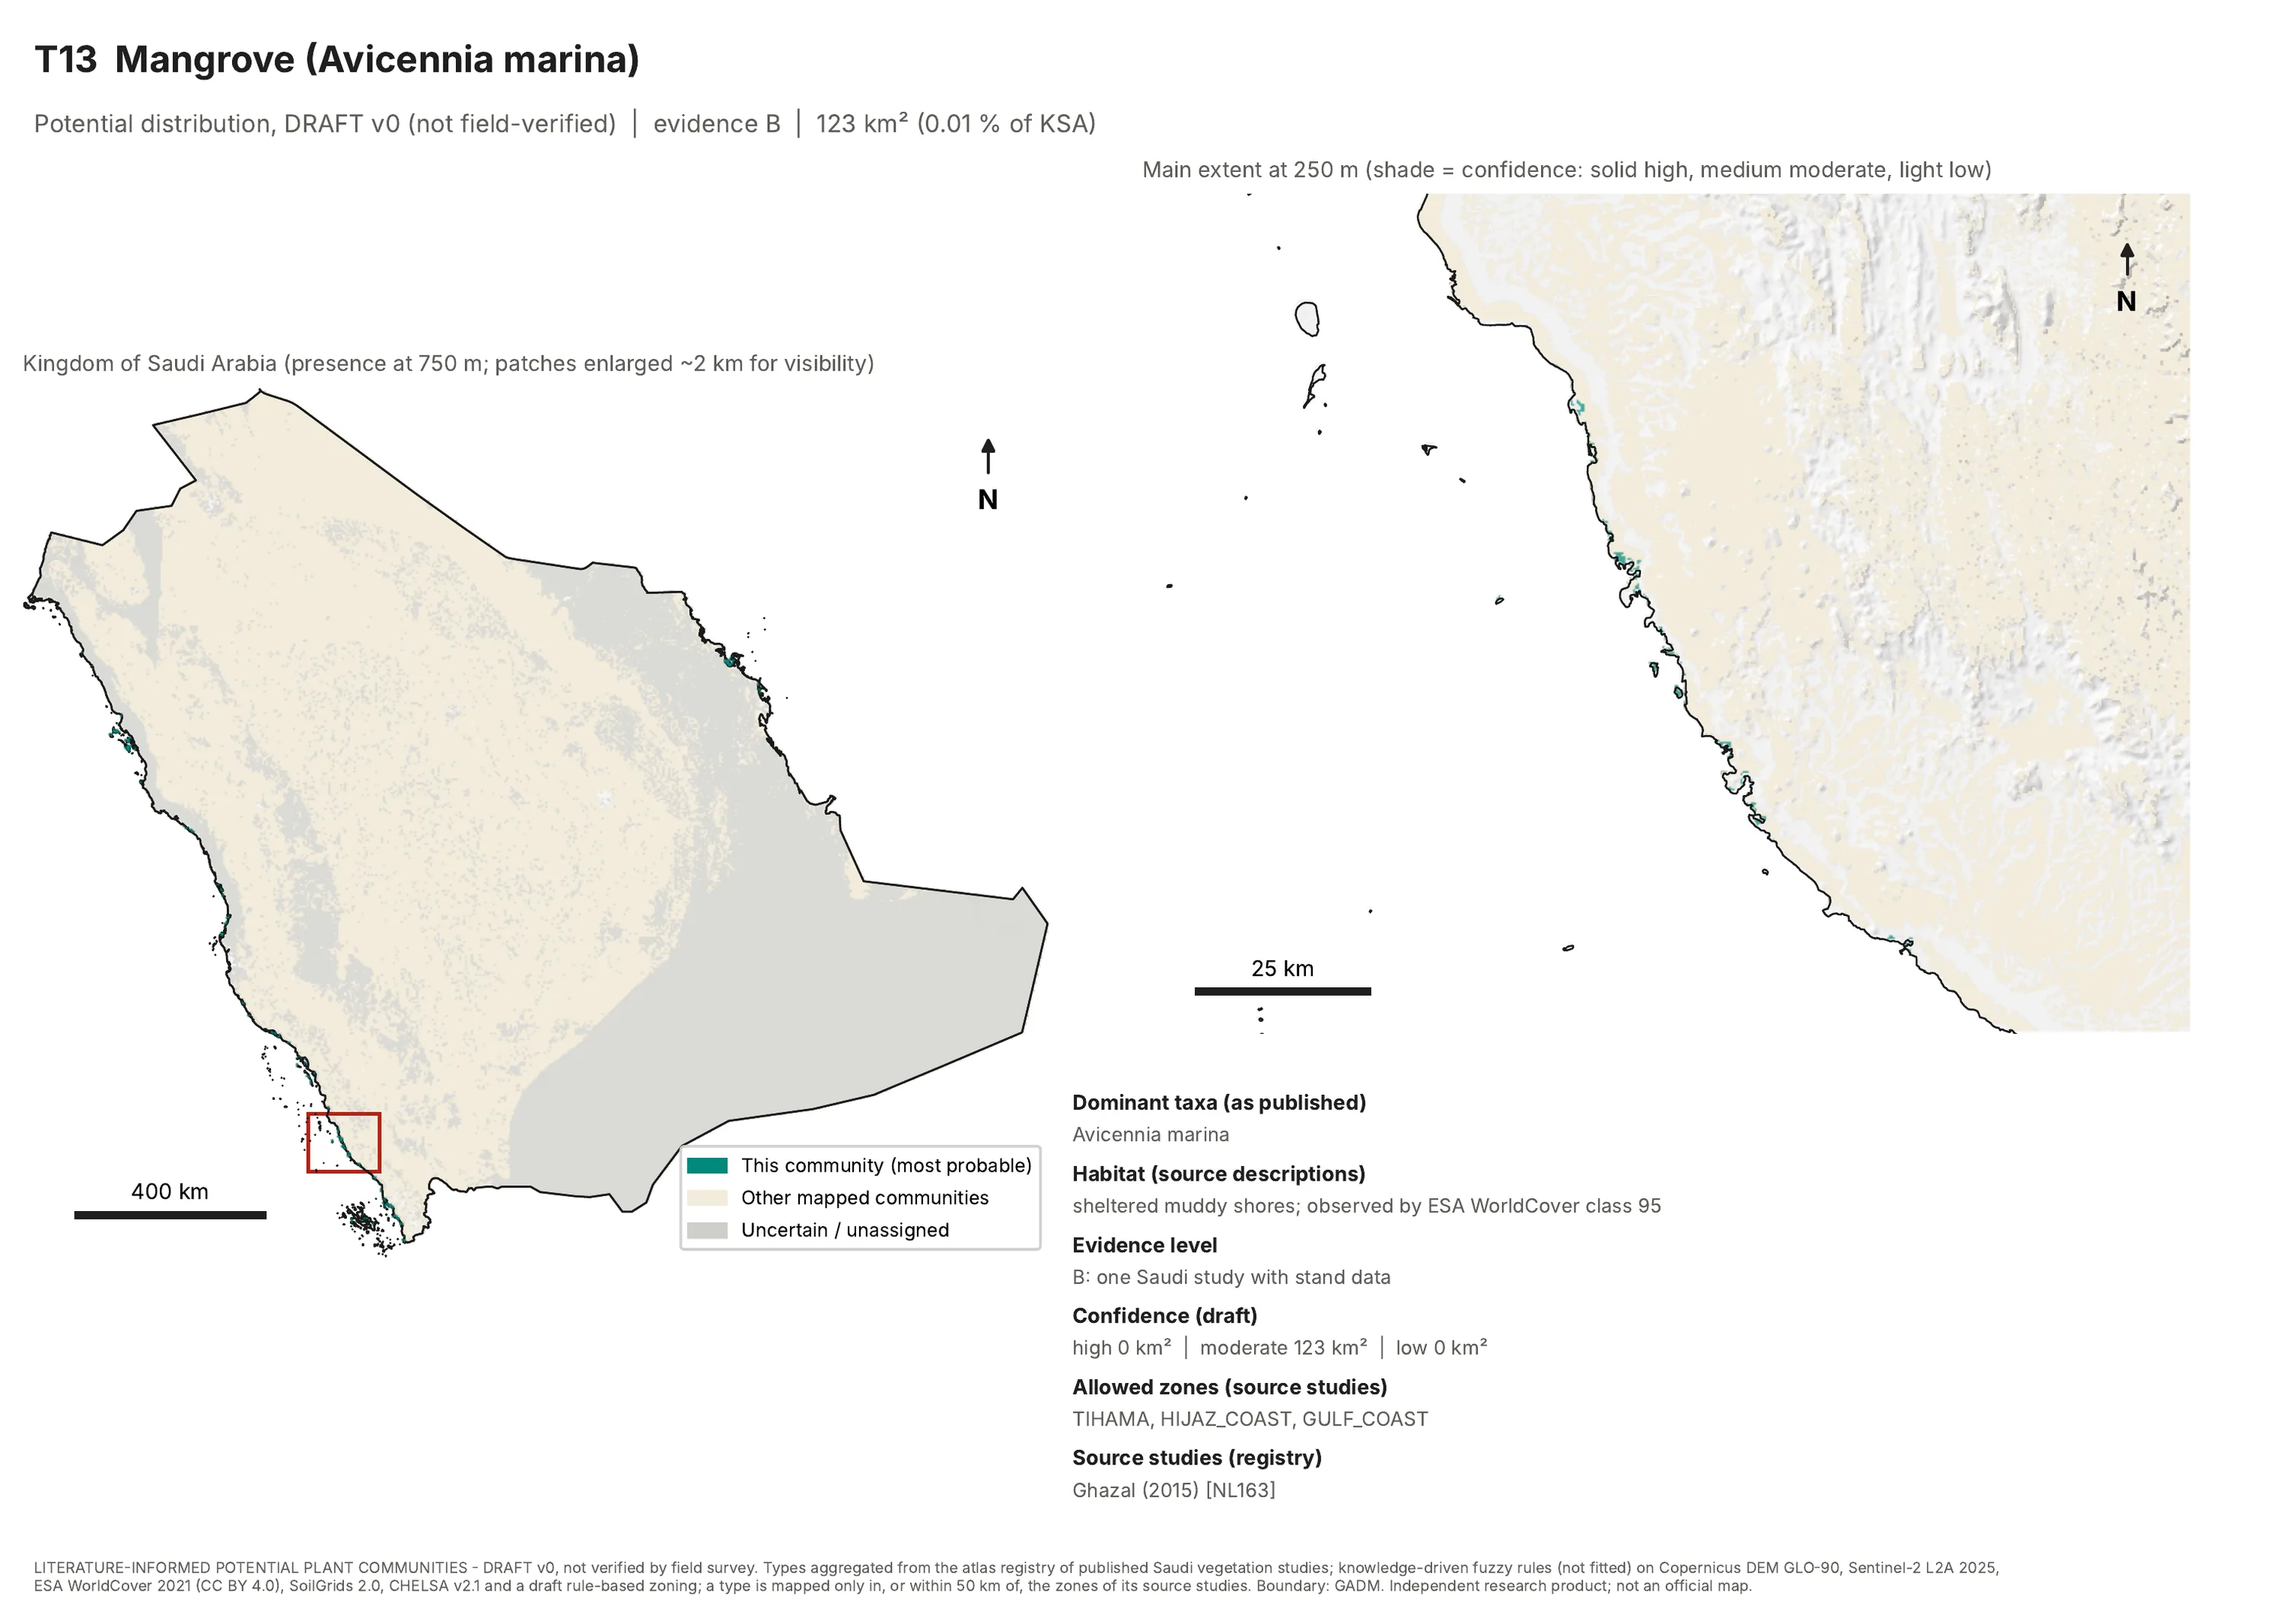
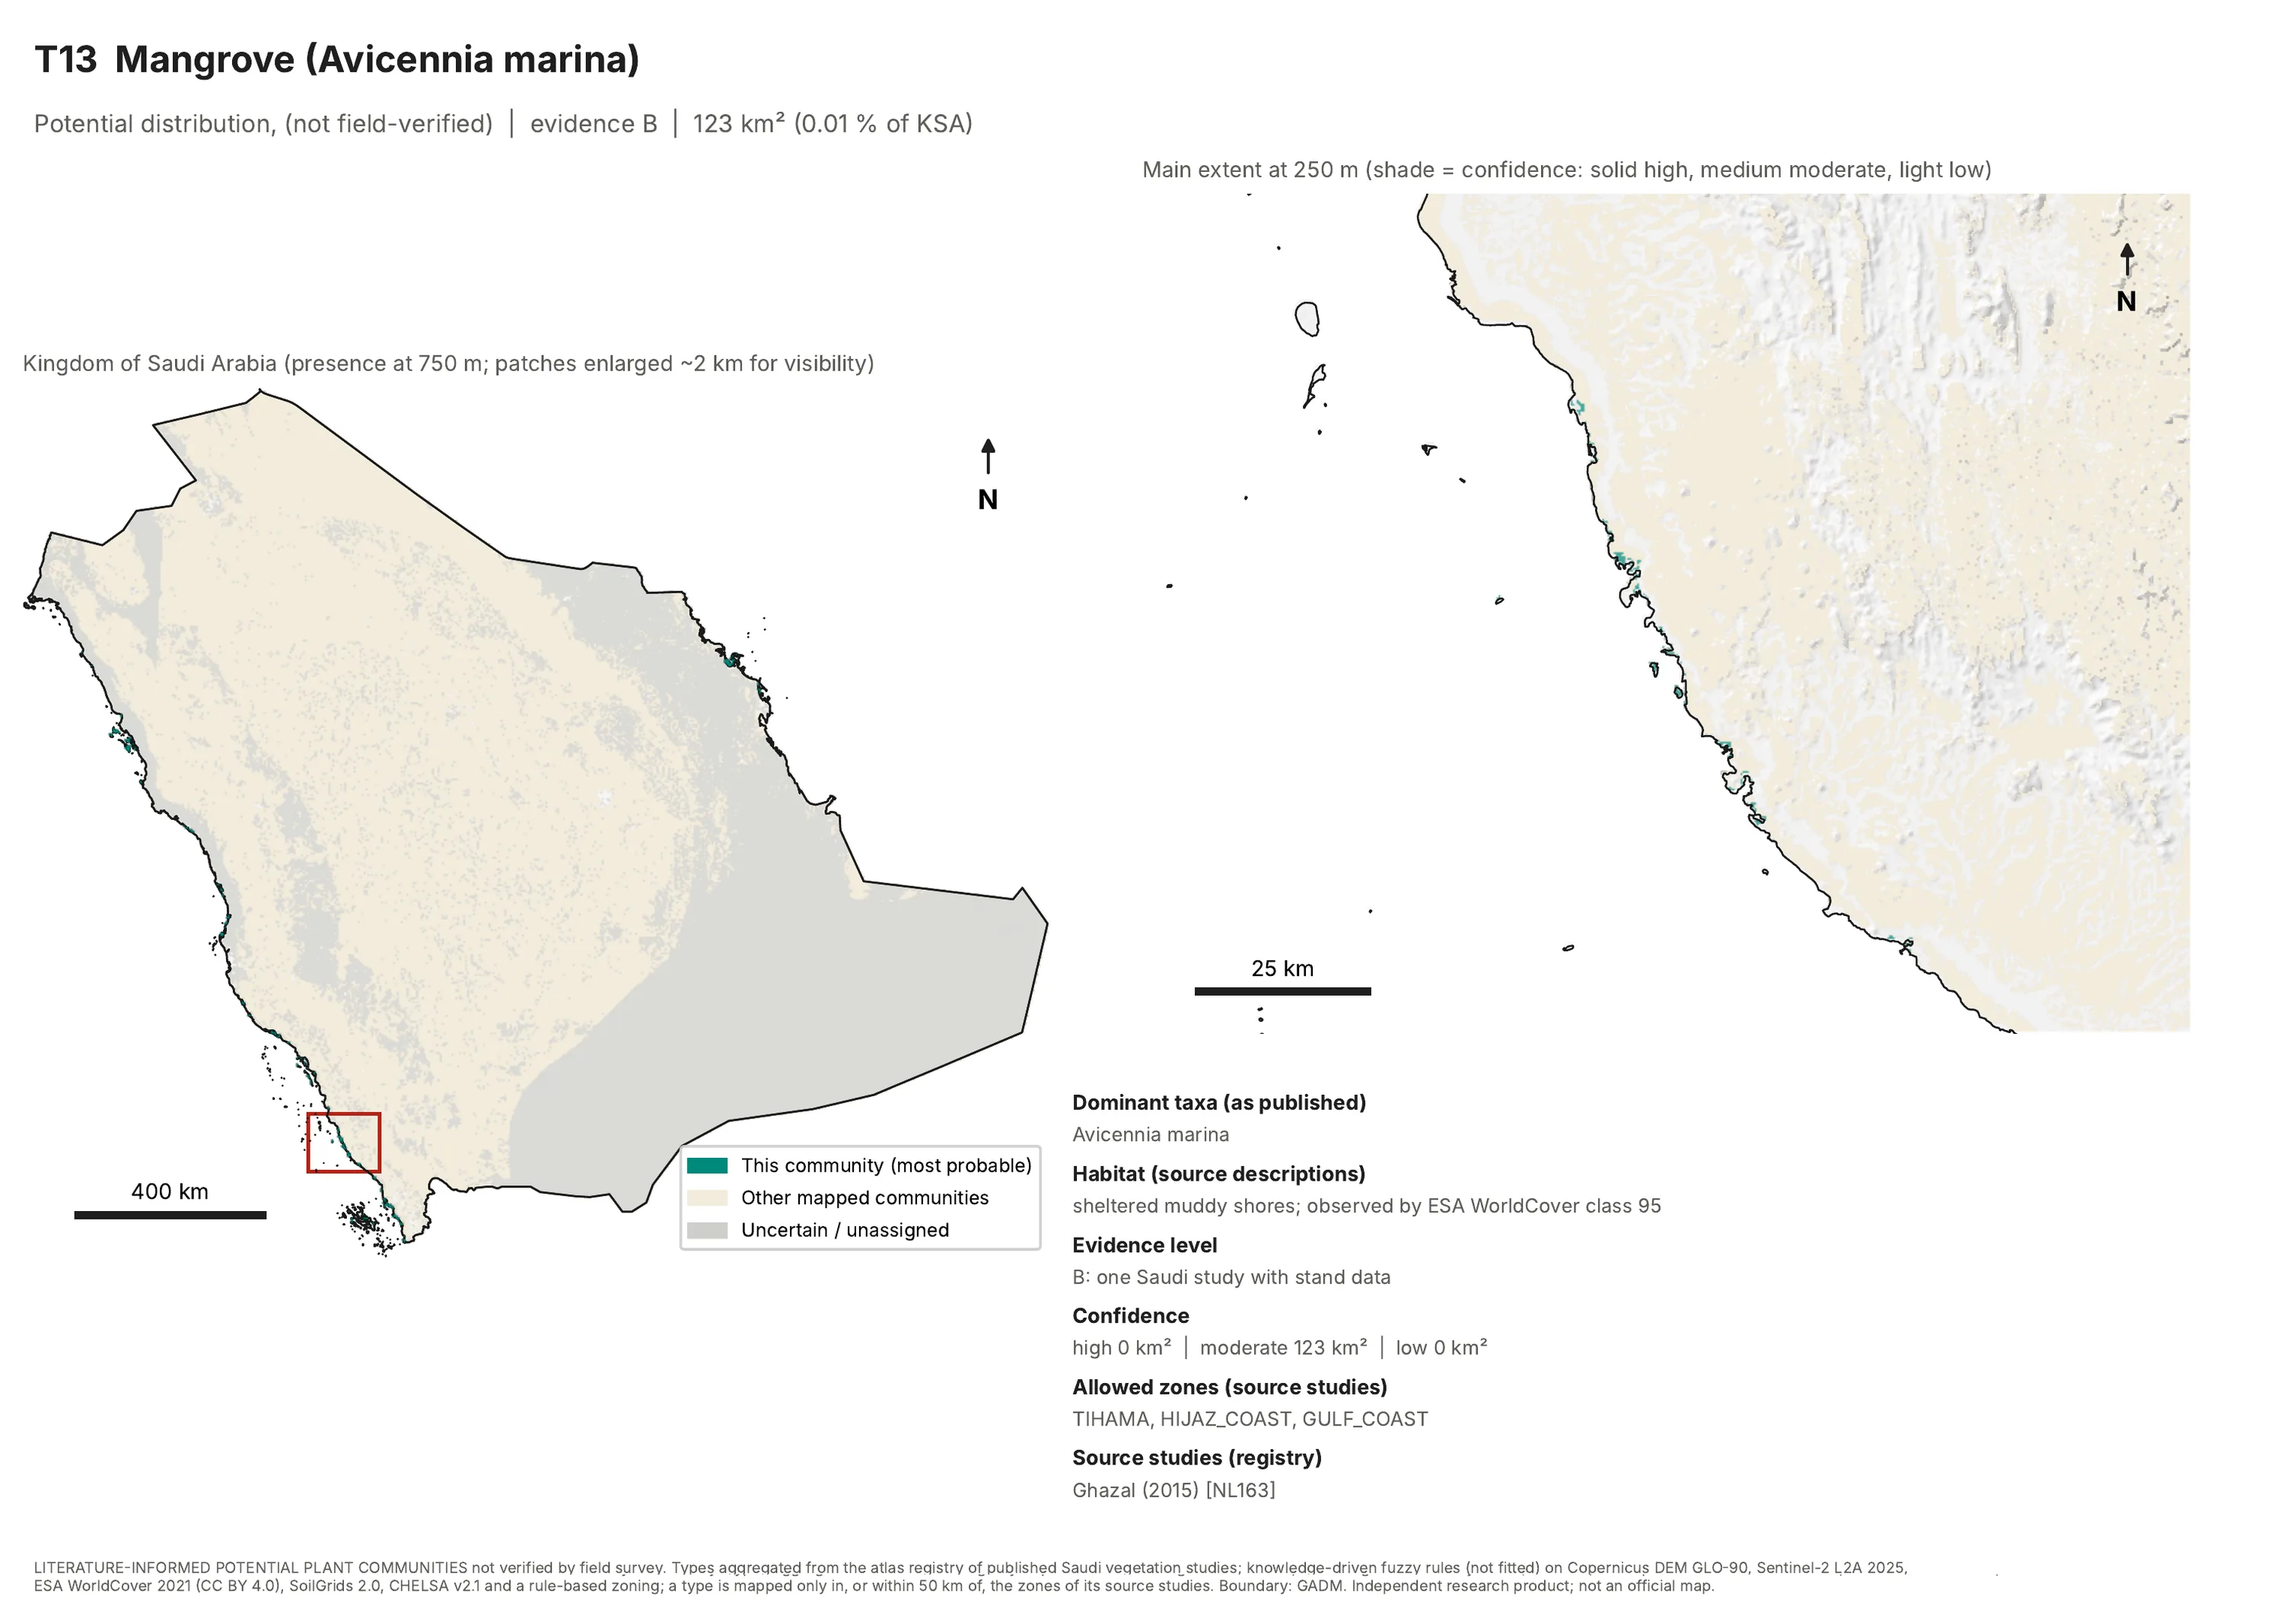
Add NCVC volunteer role and Native by Region proposal; remove draft labels from maps
Claude-Session: https://claude.ai/code/session_012ad9aWBDY1d1uPsmNpuDGg

Changed region(s): [[0.217, 0.9637, 0.837, 0.9948], [0.124, 0.0622, 0.465, 0.0933], [0.527, 0.8083, 0.558, 0.8394]]

diff --git a/content/site.ts b/content/site.ts
@@ -35,7 +35,7 @@ export const person = {
   stats: [
     { n: "+50", l: { ar: "خريطة منجزة ضمن مختارات من أعمالي", en: "maps produced across selected works" } },
     { n: { ar: "ماجستير", en: "M.Sc." }, l: { ar: "العلوم البيئية، جامعة الملك سعود", en: "Environmental Science, King Saud University" } },
-    { n: { ar: "خبرة عملية وميدانية", en: "Hands-on field experience" }, l: { ar: "في المحميات والتنوع الأحيائي مع NCW وRed Sea Global ومكاتب الاستشارات البيئية", en: "in protected areas and biodiversity with NCW, Red Sea Global and environmental consultancies" } },
+    { n: { ar: "خبرة عملية وميدانية", en: "Hands-on field experience" }, l: { ar: "في المحميات والتنوع الأحيائي مع NCW وNCVC وRed Sea Global ومكاتب الاستشارات البيئية", en: "in protected areas and biodiversity with NCW, NCVC, Red Sea Global and environmental consultancies" } },
   ] as { n: string | T; l: T }[],
 };
 
@@ -231,6 +231,17 @@ export const publications: { status: T; title: string; venue: string; href?: str
 export const nameNote: T = { ar: "منشوراتي باسم Al-Otaibi, A.", en: "Published as Al-Otaibi, A." };
 
 export const experience: { period: T; role: T; org: T; points: T[] }[] = [
+  {
+    period: { ar: "نوفمبر 2026 – الآن", en: "Nov 2026 – present" },
+    role: { ar: "مطوّر قاعدة بيانات نباتية (تطوعي)", en: "Botanical Database Developer (Volunteer)" },
+    org: { ar: "المركز الوطني لتنمية الغطاء النباتي ومكافحة التصحر، الرياض", en: "National Center for Vegetation Cover Development and Combating Desertification (NCVC), Riyadh" },
+    points: [
+      { ar: "تطوير لوحة تفاعلية لإدارة البيانات النباتية وعرضها واستكشافها.", en: "Developed an interactive dashboard for managing, visualizing and exploring botanical data." },
+      { ar: "معالجة البيانات النباتية وتنقيحها وتوحيدها، ومطابقة الأسماء العلمية مع المراجع التصنيفية المعتمدة.", en: "Processed, cleaned and standardized botanical datasets, aligning scientific names with recognized taxonomic references." },
+      { ar: "مراجعة المراجع والكتب والأوصاف التاريخية للأنواع ورقمنتها، وتحويل مواقع النباتات الموثقة إلى بيانات مكانية للتحليل ورسم الخرائط.", en: "Reviewed and digitized botanical literature and historical species descriptions, turning documented plant locations into geospatial data." },
+      { ar: "تقديم مقترح مشروع «محلي في محله» لاختيار النباتات المحلية حسب المنطقة، وهو تحت الدراسة.", en: "Proposed the “Native by Region” project for selecting native plants by region, currently under review." },
+    ],
+  },
   {
     period: { ar: "يوليو 2026 – الآن", en: "Jul 2026 – present" },
     role: { ar: "استشاري مستقل في GIS والنمذجة البيئية", en: "Independent GIS & Environmental Modeling Consultant" },
